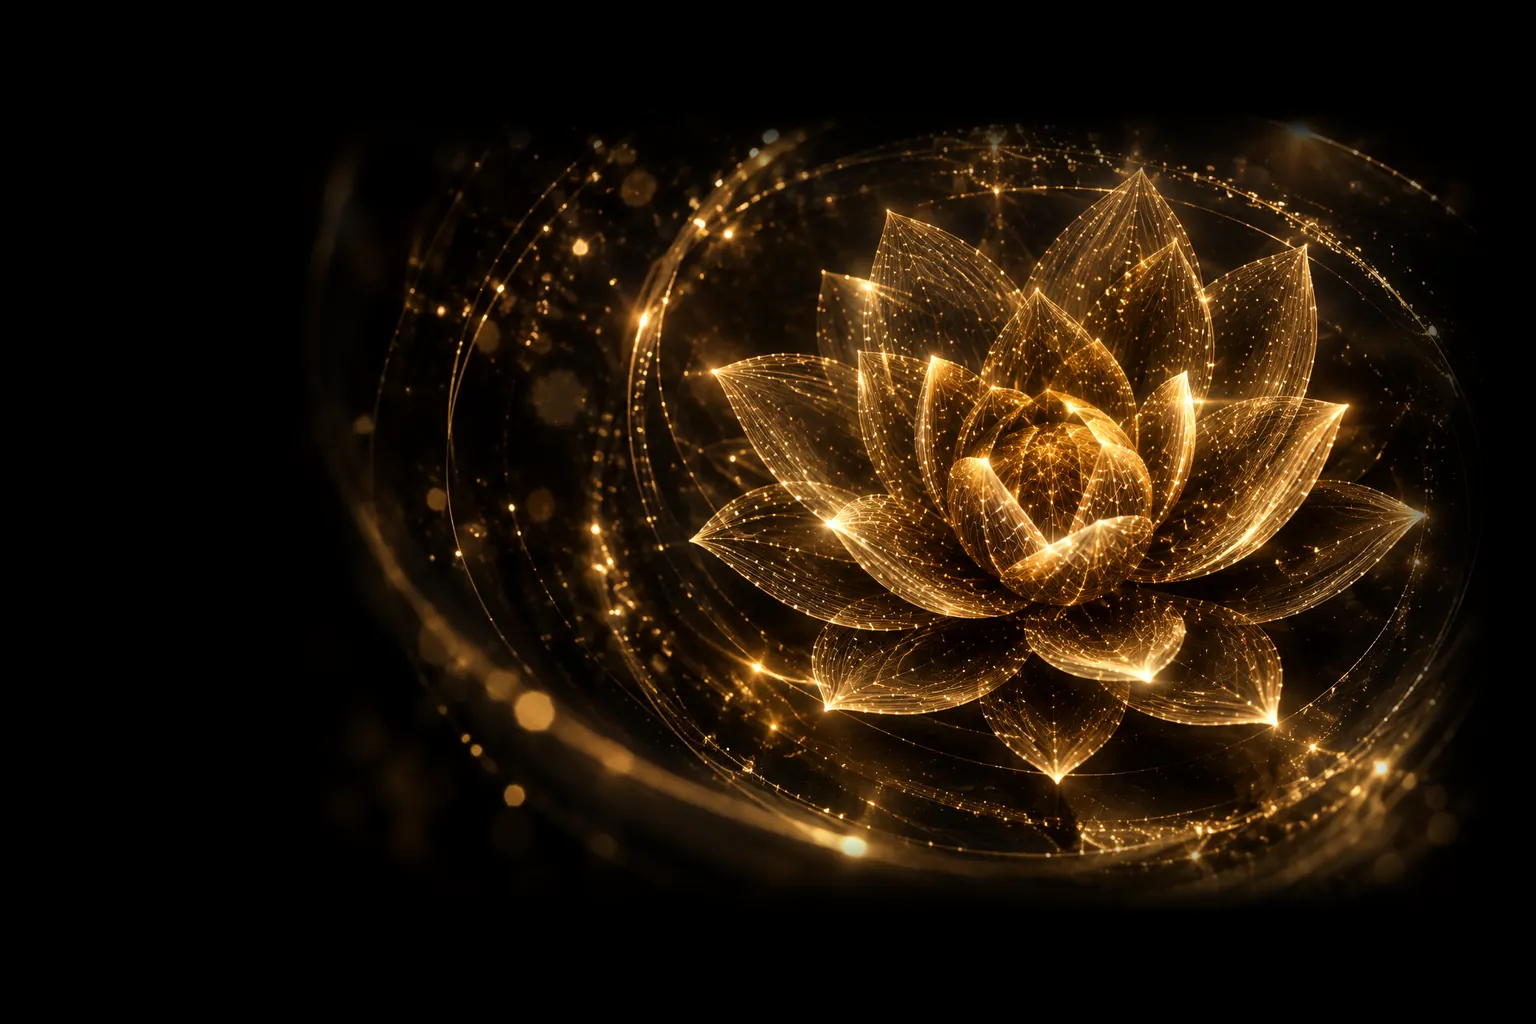
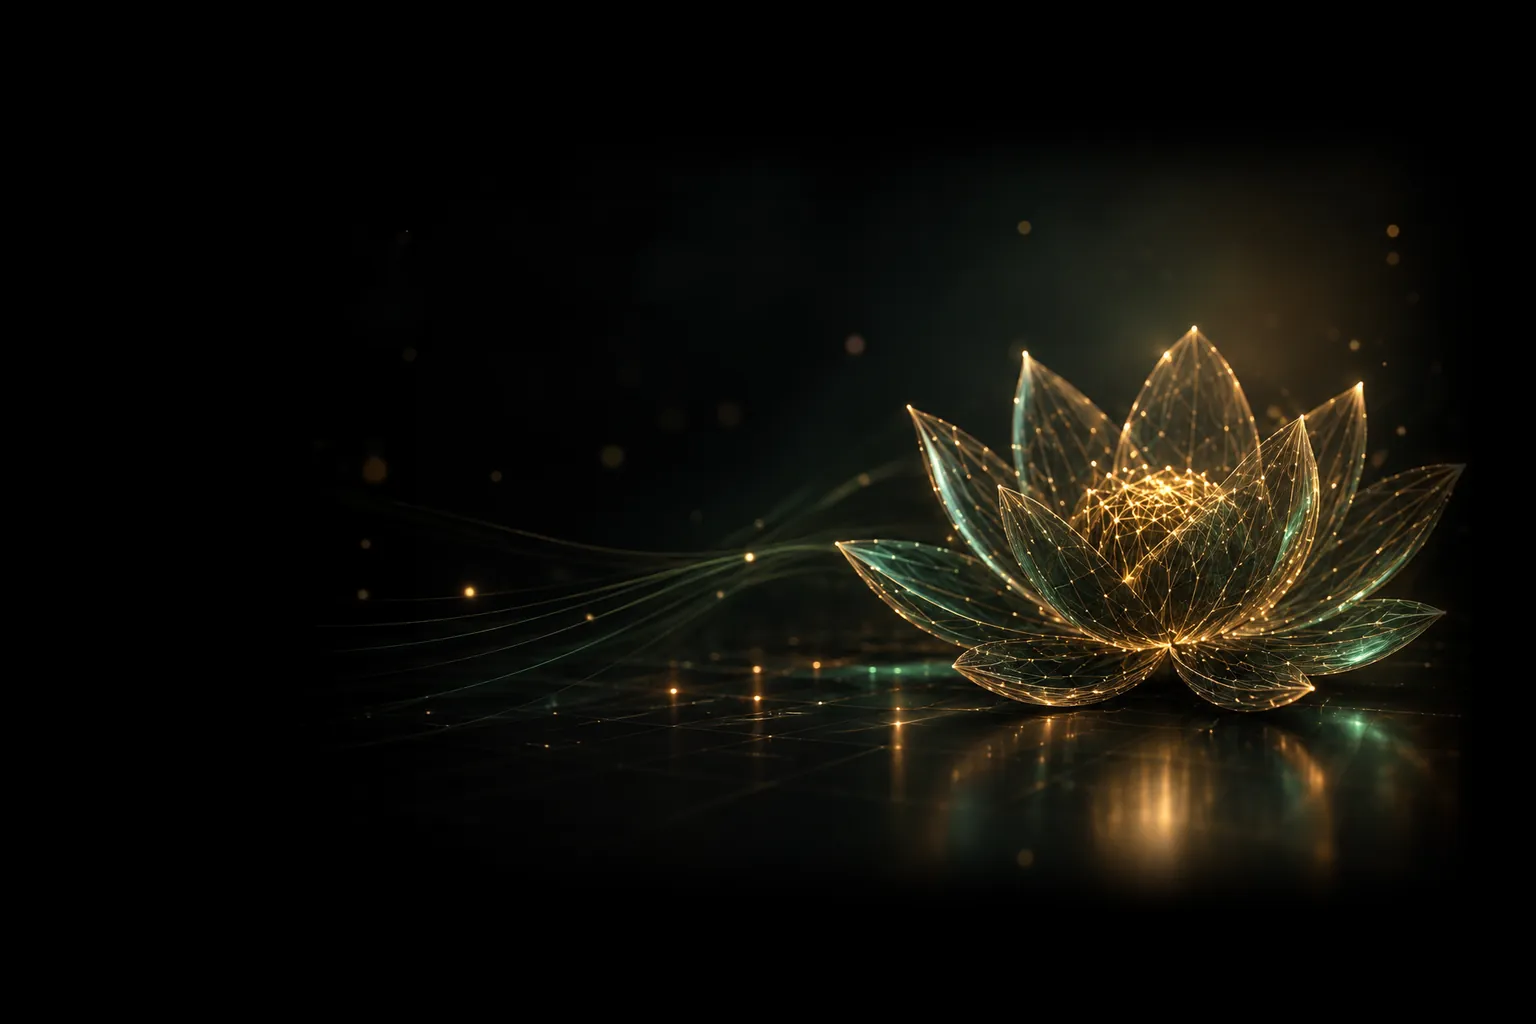
Remap section backgrounds: wow to Contact, angle4 to Home, angle1 to About, Blog back on site-bg.jpg, colors above to Brand Design

diff --git a/src/app/globals.css b/src/app/globals.css
@@ -67,17 +67,15 @@ body {
 .site-bg-layer--home { background-image: var(--bg-dim), url("/bg/home.webp"); }
 .site-bg-layer--craft { background-image: var(--bg-dim), url("/bg/craft.webp"); }
 .site-bg-layer--work { background-image: var(--bg-dim), url("/bg/work.webp"); }
-.site-bg-layer--blog { background-image: var(--bg-dim), url("/bg/blog.webp"); }
-.site-bg-layer--brand { background-image: var(--bg-dim), url("/bg/brand.webp"); }
+.site-bg-layer--about { background-image: var(--bg-dim), url("/bg/about.webp"); }
+.site-bg-layer--contact { background-image: var(--bg-dim), url("/bg/contact.webp"); }
 /* The top down renders fill the whole frame with petals, so they sit
    behind body copy and get a heavier scrim. */
-.site-bg-layer--about,
-.site-bg-layer--contact,
+.site-bg-layer--brand,
 .site-bg-layer--services {
   --bg-dim: linear-gradient(rgb(0 0 0 / 0.8), rgb(0 0 0 / 0.8));
 }
-.site-bg-layer--about { background-image: var(--bg-dim), url("/bg/about.webp"); }
-.site-bg-layer--contact { background-image: var(--bg-dim), url("/bg/contact.webp"); }
+.site-bg-layer--brand { background-image: var(--bg-dim), url("/bg/brand.webp"); }
 .site-bg-layer--services { background-image: var(--bg-dim), url("/bg/services.webp"); }
 @media (max-width: 639px) {
   .site-bg {
@@ -86,11 +84,11 @@ body {
   /* The original backdrop has no scrim, so it keeps its old 0.4 on phones. */
   .site-bg-layer--default.is-active { opacity: 0.67; }
   .site-bg-layer--default { background-position: 70% 100%; }
-  .site-bg-layer--home { background-position: 70% 58%; }
+  .site-bg-layer--home { background-position: 34% 58%; }
+  .site-bg-layer--about { background-position: 72% 58%; }
   .site-bg-layer--craft,
   .site-bg-layer--work { background-position: 66% 58%; }
-  .site-bg-layer--blog { background-position: 26% 58%; }
-  .site-bg-layer--brand { background-position: 58% 58%; }
+  .site-bg-layer--contact { background-position: 62% 58%; }
 }
 .site-bg.is-hidden {
   opacity: 0;

diff --git a/src/components/site-background.tsx b/src/components/site-background.tsx
@@ -14,14 +14,13 @@ const SERVICE_PAGES = new Set([
   "/generative-engine-optimization-orlando",
 ]);
 
-/** Which lotus render sits behind a route. Anything unlisted (funnels,
-    Growth Kit, 404) keeps the original site-bg.jpg. Images and per-key
+/** Which lotus render sits behind a route. Anything unlisted (the blog,
+    funnels, Growth Kit, 404) keeps the original site-bg.jpg. Images and per-key
     positioning live in the .site-bg-layer--* rules in globals.css. */
 function backgroundFor(pathname: string) {
   if (pathname === "/") return "home";
   if (pathname === "/services") return "craft";
   if (pathname === "/works") return "work";
-  if (pathname === "/blog" || pathname.startsWith("/blog/")) return "blog";
   if (pathname === "/about") return "about";
   if (pathname === "/contact") return "contact";
   if (pathname === "/brand-design") return "brand";
